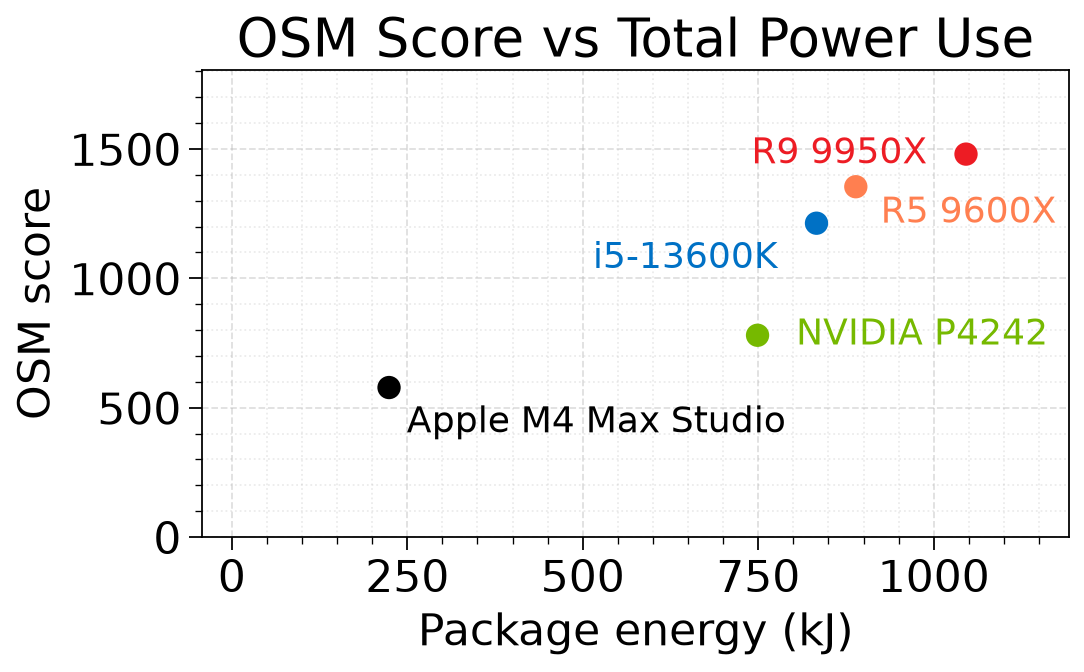
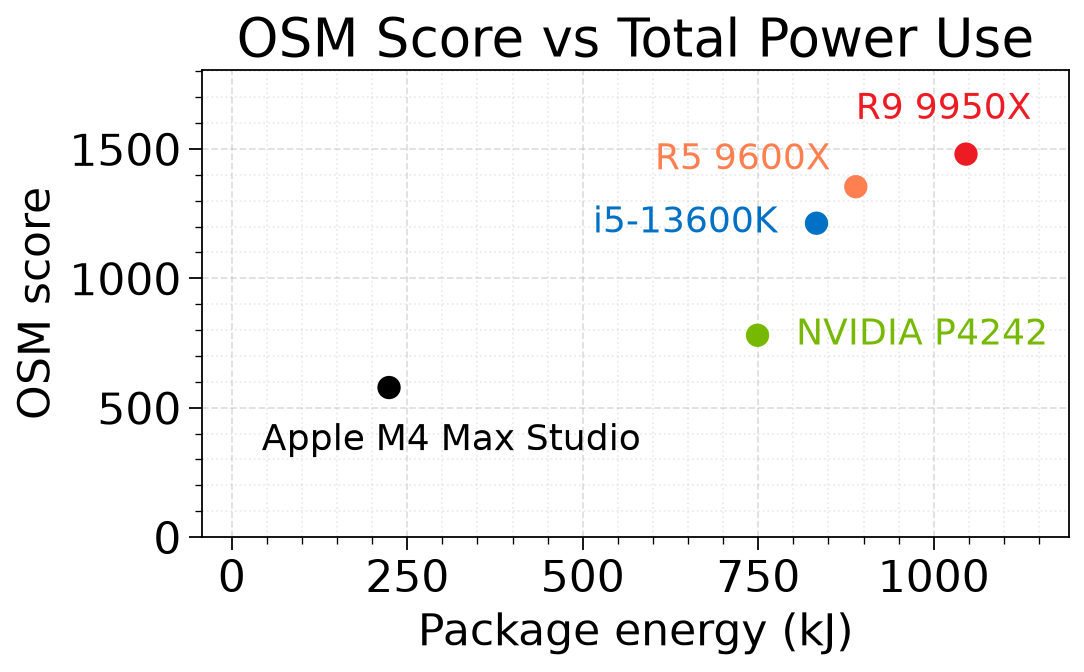
Tune OSM joules scatter labels for 9950X, i5, and M4.

diff --git a/reports/osm-leaderboard.py b/reports/osm-leaderboard.py
@@ -158,11 +158,13 @@ def _marker_x_gap(gap: float = 12) -> float:
 
 
 JOULES_LABEL_OVERRIDES = {
-    # ~128 Gi board: 9950X high-right; 9600X / i5 share the mid band.
-    "i5-13600K": LabelOffset(-_marker_x_gap(), -8, ha="right", va="top"),
-    "R9 9950X": LabelOffset(-_marker_x_gap(), 0, ha="right", va="center"),
+    # ~128 Gi board: 9950X above, nudged left of center for the right edge;
+    # M4 under the dot, marched right from center so the long string clears
+    # the left grid; i5 left of dot, vertically centered.
+    "i5-13600K": LabelOffset(-_marker_x_gap(), 0, ha="right", va="center"),
+    "R9 9950X": LabelOffset(-10, 12, ha="center", va="bottom"),
     "R5 9600X": LabelOffset(_marker_x_gap(), 8, ha="left", va="bottom"),
-    "Apple M4 Max Studio": LabelOffset(0, 12, ha="center", va="bottom"),
+    "Apple M4 Max Studio": LabelOffset(28, -16, ha="center", va="top"),
     "NVIDIA P4242": LabelOffset(_marker_x_gap(), 0, ha="left", va="center"),
 }
 
